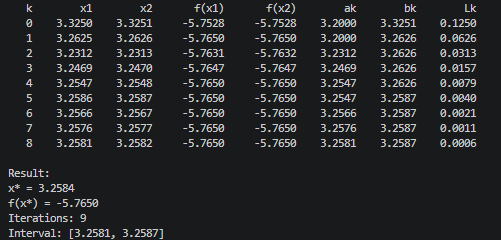
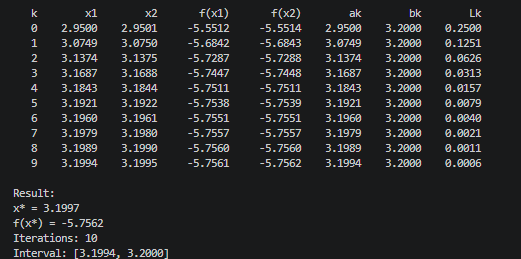
Git

diff --git a/lab 1-2/Dihotomie/Dihotomie.cpp b/lab 1-2/Dihotomie/Dihotomie.cpp
@@ -11,8 +11,8 @@ double f(double x)
 int main() 
 {
     cout << fixed << setprecision(4);
-    double a = 3.20;
-    double b = 3.45;
+    double a = 2.70;
+    double b = 3.20;
     double eps   = 0.001;
     double sigma = eps / 10.0;
 

diff --git a/lab 1-2/Divide_half/Divide_half.cpp b/lab 1-2/Divide_half/Divide_half.cpp
@@ -11,8 +11,8 @@ double f(double x)
 int main() 
 {
     cout << fixed << setprecision(4);
-    double a = 3.20;
-    double b = 3.45;
+    double a = 2.70;
+    double b = 3.20;
     double eps   = 0.001;
     double sigma = eps / 10.0;
 
